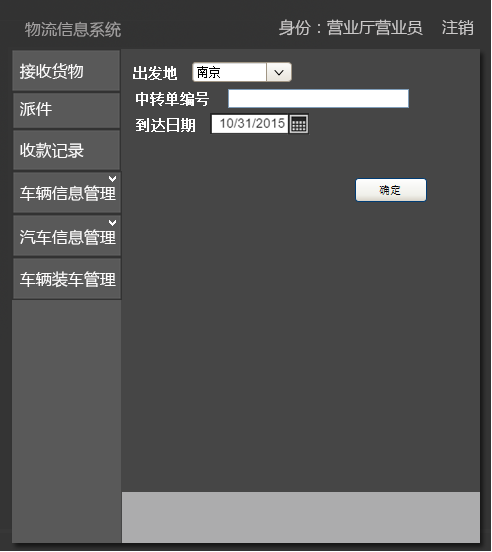
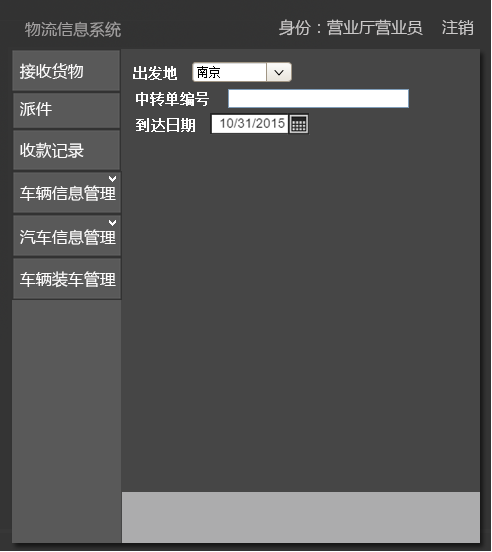
position arrive

Changed region(s): [[0.7012, 0.308, 0.8841, 0.3696]]

diff --git a/ExpressSystem/client/src/main/java/nju/sec/yz/ExpressSystem/presentation/positionui/PositionArriveUi.java b/ExpressSystem/client/src/main/java/nju/sec/yz/ExpressSystem/presentation/positionui/PositionArriveUi.java
@@ -4,6 +4,8 @@ import java.awt.Color;
 import java.awt.Font;
 import java.awt.Graphics;
 import java.awt.Image;
+import java.awt.event.FocusEvent;
+import java.awt.event.FocusListener;
 import java.awt.event.MouseAdapter;
 import java.awt.event.MouseEvent;
 import java.awt.event.MouseListener;
@@ -11,14 +13,17 @@ import java.awt.event.MouseMotionListener;
 import java.util.ArrayList;
 import java.util.List;
 
+import javax.swing.DefaultCellEditor;
 import javax.swing.ImageIcon;
 import javax.swing.JButton;
 import javax.swing.JComboBox;
+import javax.swing.JFrame;
 import javax.swing.JLabel;
 import javax.swing.JPanel;
 import javax.swing.JScrollPane;
 import javax.swing.JTable;
 import javax.swing.JTextField;
+import javax.swing.table.DefaultTableModel;
 import javax.swing.table.TableCellRenderer;
 
 import nju.sec.yz.ExpressSystem.bl.deliverbl.DeliverController;
@@ -54,7 +59,8 @@ public class PositionArriveUi extends JPanel{
 	private PositionControler controler;
 	private ButtonComponents bc;
 	private String[] name={"条形码号","货物到达状态"};
-	private String[][] data;
+	private Object[][] data;
+	private int n=0;
 	
 	private JComboBox JCdeparture;
 	private JTextField JTtranferId;
@@ -107,10 +113,16 @@ public class PositionArriveUi extends JPanel{
 		}
 		initDeliverMainUi();
 	}
+	public PositionArriveUi()
+	{
+		city=new String[]{"南京","北京","上海"};
+		data=new String[][]{{"",""}};
+		initDeliverMainUi();
+	}
 
 	private void initDeliverMainUi() {
-		bc.changePanel(this);
-		bc.change();
+		/*bc.changePanel(this);
+		bc.change();*/
 		setLayout(null);
 		setSize(490, 550);
 		
@@ -120,31 +132,35 @@ public class PositionArriveUi extends JPanel{
 		
 		JTtranferId=new JTextField();
 		JTtranferId.setBounds(tranferId_x,tranferId_y,tranferId_w,h);
-		add(JTtranferId);
-		
-		date=new DateChooser(this,date_x,date_y);
-		
-		table=new JTable(data,name);
-		table.setRowHeight(20);
-//		table.setAutoResizeMode(JTable.AUTO_RESIZE_OFF);
-		
-		scroll=new JScrollPane(table);
-		scroll.setBounds(scroll_x,scroll_y,scroll_w,scroll_h);
-		scroll.addMouseListener(new MouseAdapter(){
-			public void mouseClicked(MouseEvent e) {
-				List<String> bars=deliverBl.getBarIdList(JTtranferId.getText());
+		JTtranferId.addFocusListener(new FocusListener(){
+			@Override
+			public void focusGained(FocusEvent e) {
+				// TODO Auto-generated method stub
+				
+			}
+			@Override
+			public void focusLost(FocusEvent e) {
+				/*List<String> bars=deliverBl.getBarIdList(JTtranferId.getText());*/
+				ArrayList<String> bars=new ArrayList<String>();
+				bars.add("12345");
+				bars.add("12345");
+				bars.add("12345");
 				System.out.println("here");
-				if(true)//bars!=null)
-				{
-//					data=new String[bars.size()][];
-//					for(int i=0;i<bars.size();i++)
-//					{
-//						data[i][0]=bars.get(i);
-//						data[i][1]="";
-//					}
-					data=new String[][]{{"1",""},{"2",""},{"3",""}};
+				if(true)/*bars!=null)*/
+				{	n=bars.size();
+					data=new String[bars.size()][2];
+					for(int i=0;i<n;i++)
+					{
+						data[i][0]=bars.get(i);
+						data[i][1]="";
+					}
 					table=new JTable(data,name);
-					table.getColumnModel().getColumn(1).setCellRenderer((TableCellRenderer) new JComboBox(new String[]{"完整","丢失","损坏"}));
+					table.getColumnModel().getColumn(1).setCellEditor(new DefaultCellEditor(new JComboBox(new String[]{"完整","丢失","损坏"})));
+					table.setRowHeight(20);
+					scroll=new JScrollPane(table);
+					scroll.setBounds(scroll_x,scroll_y,scroll_w,scroll_h);
+					add(scroll);
+//					table.setAutoResizeMode(JTable.AUTO_RESIZE_OFF);
 					repaint();
 				}
 				else{
@@ -154,11 +170,9 @@ public class PositionArriveUi extends JPanel{
 				}
 			}
 		});
-		add(scroll);
+		add(JTtranferId);
 		
-//		state=new JComboBox(new String[]{"完整","丢失","损坏"});
-//		state.setBounds(state_x, state_y, state_w, h);
-//		add(state);
+		date=new DateChooser(this,date_x,date_y);
 		
 		warning=new JLabel();
 		warning.setBounds(warning_x, warning_y, warning_w, warning_h);
@@ -176,20 +190,17 @@ public class PositionArriveUi extends JPanel{
 				 
 				OfficeArriveSheetVO sheet=new OfficeArriveSheetVO();
 				ArriveInformation ai=new ArriveInformation();
-//				switch((String)state.getSelectedItem())
-//				{
-//				case "损坏":
-//					arriveState=ArriveState.Broken;
-//					break;
-//				case "丢失":
-//					arriveState=ArriveState.LOST;
-//					break;
-//				case "完整":
-//					arriveState=ArriveState.PERFECT;
-//					break;
-//				}
+				for(int i=0;i<n;i++)
+				{
+					if(table.getCellEditor(i, 1).getCellEditorValue().equals("完整"))
+						arriveState=ArriveState.PERFECT;
+					else if(table.getCellEditor(i, 1).getCellEditorValue().equals("损坏"))
+						arriveState=ArriveState.Broken;
+					else if(table.getCellEditor(i, 1).getCellEditorValue().equals("丢失"))
+						arriveState=ArriveState.LOST;
+					ai.addState(arriveState);
+				}
 				ai.setDeparture((String)JCdeparture.getSelectedItem());
-//				ai.setState(arriveState);
 				ai.setTime(date.getTime());
 				ai.setTransitSheetId(JTtranferId.getText());
 				sheet.setOfficeArrive(ai);
@@ -230,6 +241,16 @@ public class PositionArriveUi extends JPanel{
 
 		g.drawImage(img01, 0, 0, 490, 550, null);
 
+	}
+	public static void main(String[] args)
+	{
+		JFrame frame=new JFrame();
+		frame.setSize(490, 550);
+		frame.setLocation(300, 300);
+		frame.setLayout(null);
+		frame.add(new PositionArriveUi());
+		frame.setVisible(true);
+		frame.show();
 	}
 
 }

diff --git a/ExpressSystem/common/src/main/java/nju/sec/yz/ExpressSystem/common/ArriveInformation.java b/ExpressSystem/common/src/main/java/nju/sec/yz/ExpressSystem/common/ArriveInformation.java
@@ -40,6 +40,10 @@ public class ArriveInformation implements Serializable{
 	public void setState(ArrayList<ArriveState> state) {
 		this.state = state;
 	}
+	public void addState(ArriveState state)
+	{
+		this.state.add(state);
+	}
 	
 	
 } 
